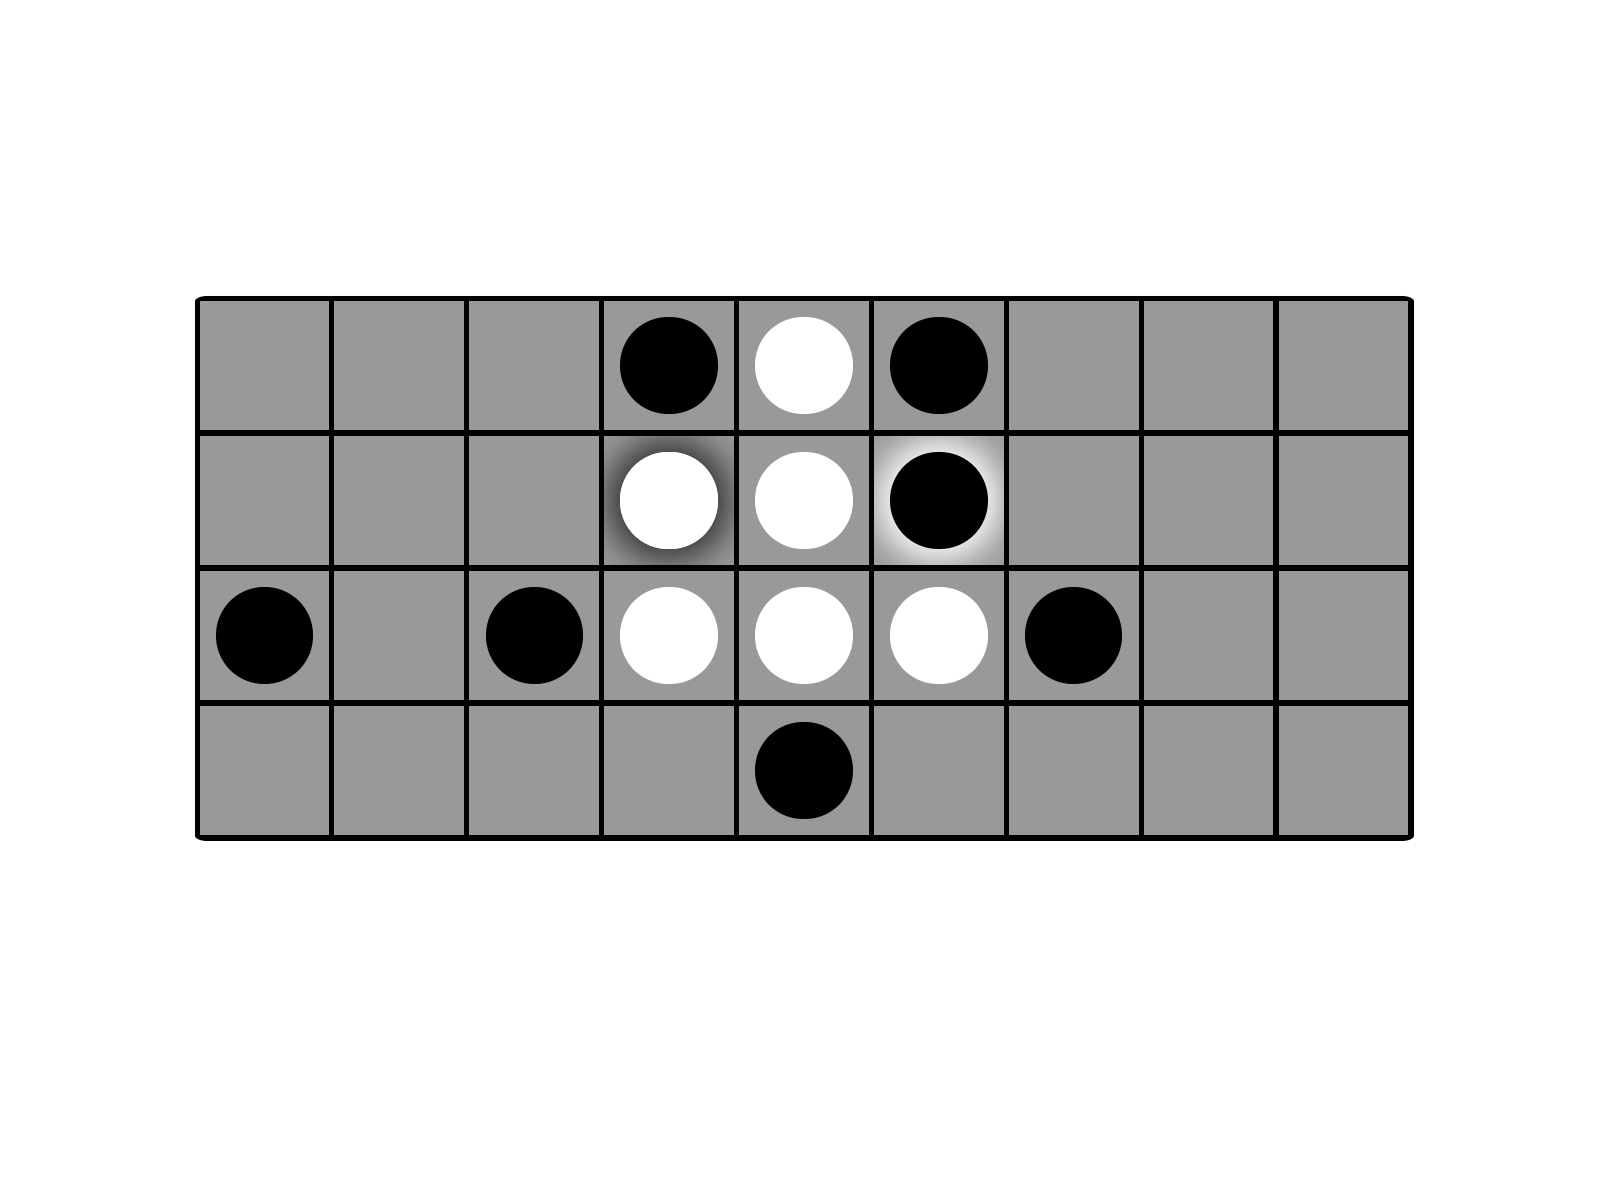
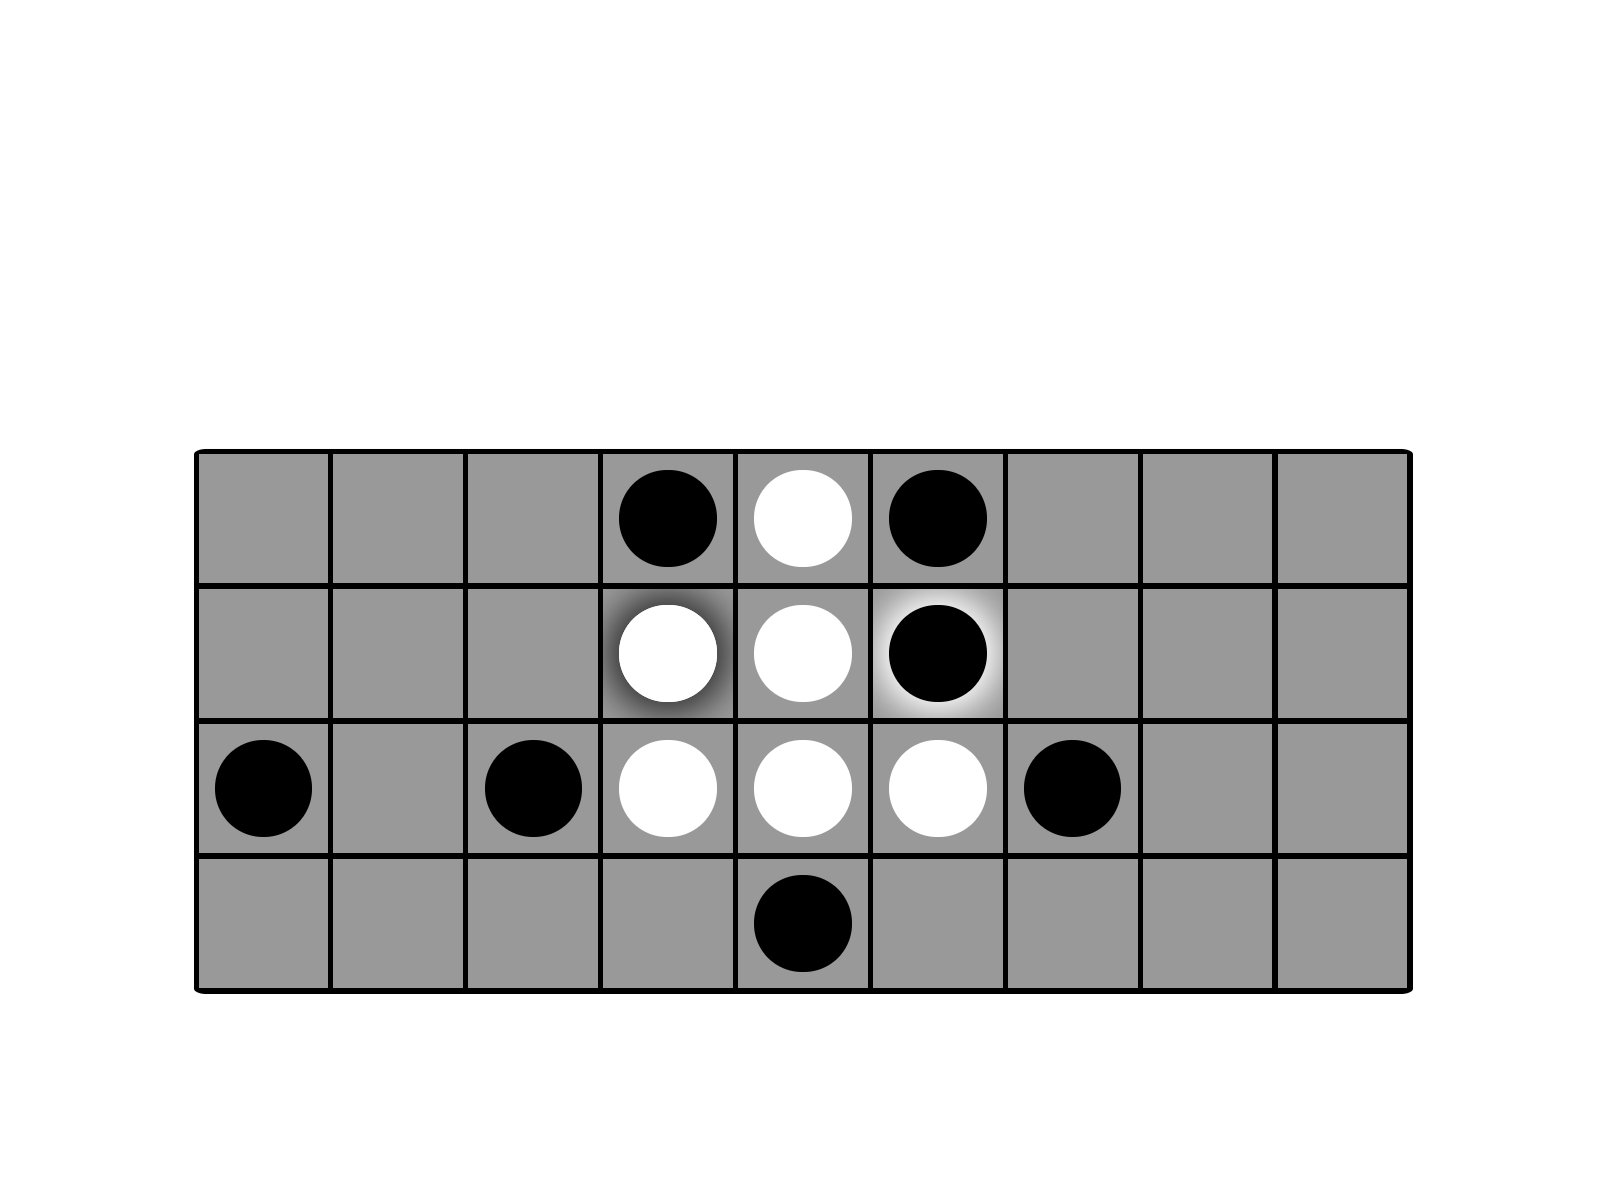
game.png

Changed region(s): [[0.0938, 0.2467, 0.9062, 0.8325]]

diff --git a/templates/try_experiments.html b/templates/try_experiments.html
@@ -22,7 +22,7 @@
 			<a href="about_us.html">About us</a>	
 		</div>
 
-		<div class="imglink text-center" onclick="location.href='play_against_comp.html'" style="top:15vh; left:7.5vw;	min-height: 37.5vh; min-width: 40vw; 	background-image:url('https://basvanopheusden.github.io/media/image/2afc.png')">Play the game!</div>
+		<div class="imglink text-center" onclick="location.href='play_against_comp.html'" style="top:15vh; left:7.5vw;	min-height: 37.5vh; min-width: 40vw; 	background-image:url('https://basvanopheusden.github.io/media/image/game.png')">Play the game!</div>
 		<div class="imglink text-center" onclick="location.href='run_2afc.html'" style="top:57.5vh; left:7.5vw;	min-height: 37.5vh; min-width: 40vw">Choose between 2 moves</div>
 		<div class="imglink text-center" onclick="location.href='run_eval.html'" style="top:15vh; left:52.5vw;	min-height: 37.5vh; min-width: 40vw">Evaluate boards</div>
 		<div class="imglink text-center" onclick="location.href='run_turing.html'" style="top:57.5vh; left:52.5vw;	min-height: 37.5vh; min-width: 40vw">Turing test</div>
